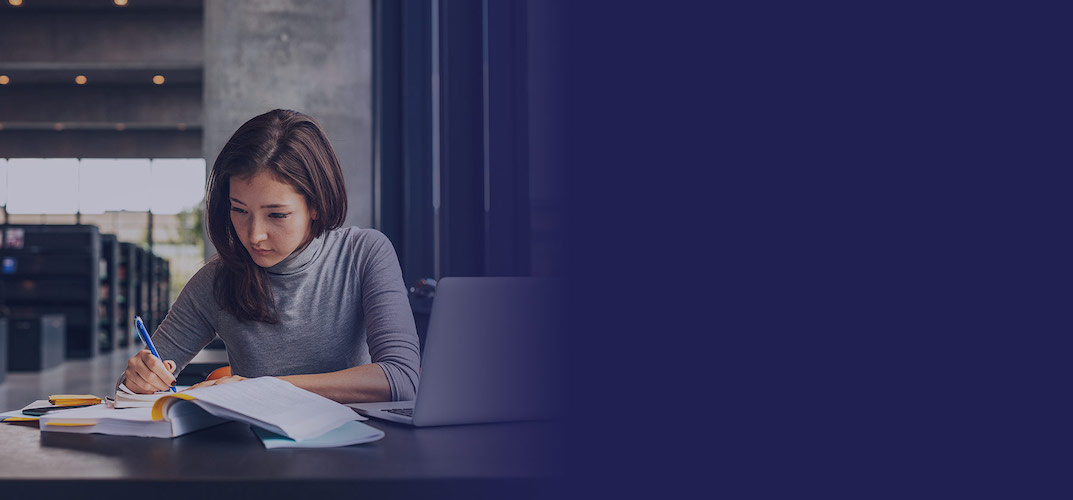
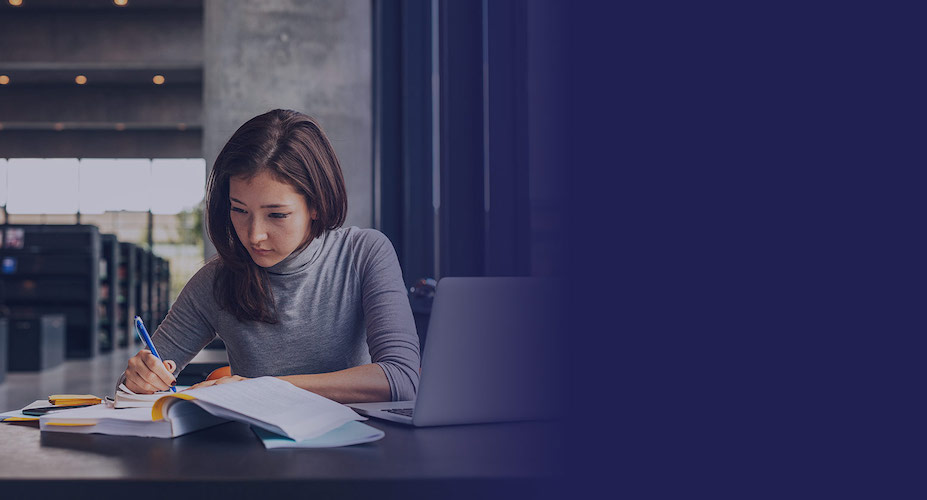
Fixed image path from image_base_url

diff --git a/_sass/_home.scss b/_sass/_home.scss
@@ -108,11 +108,12 @@ header {
     margin-bottom: 2rem;
   }
   p {
-    color: #bbb;
+    color: #ddd;
     font-size: 18px;
     line-height: 28px;
     padding-right: 1rem;
     margin-bottom: 2rem;
+    font-weight: 300;
   }
   .btn-apply {
     background: #c50227;
@@ -122,34 +123,6 @@ header {
   }
 }
 
-// covid
-.covid-section {
-  .background-container {
-    position: relative;
-
-    .image-wrapper {
-      position: absolute;
-      top: 0;
-      left: 0;
-    }
-  }
-
-  .covid-text-wrapper {
-    .inner-content {
-      padding: 3rem;
-      background-color: #E9E9E9;
-      margin: 30px 0;
-      position: relative;
-      left: 80%;
-    }
-    .title {
-      font-family: "Source Serif Pro", sans-serif;
-    }
-    img {
-      height: 25px;
-    }
-  }
-}
 
 // highlights
 .highlights-section {

diff --git a/_includes/banner.html b/_includes/banner.html
@@ -8,7 +8,7 @@
           <div class="carousel-inner">
             {% for slide in banner.slider %}
               <div class="carousel-item{% if forloop.index == 1 %} active{% endif %}">
-                <img src="{{ slide.img }}" class="d-block w-100" alt="{{ slide.title }}">
+                <img src="{{ site.image_base_url }}/{{ slide.img }}" class="d-block w-100" alt="{{ slide.title }}">
                 <div class="carousel-caption d-md-block">
                   <p class="mb-0">
                     {{ slide.title }}

diff --git a/assets/main.scss b/assets/main.scss
@@ -3,6 +3,7 @@
 
 $baseurl: "{{ site.baseurl }}";
 $image_base_url: "{{ site.image_base_url }}";
-$highlights-bg-img: "{{ site.data.home.highlights.bg-img }}";
-$admissions-bg-img: "{{ site.data.home.admissions.bg-img }}";
+$highlights-bg-img: "{{ site.image_base_url }}/{{ site.data.home.highlights.bg-img }}";
+$admissions-bg-img: "{{ site.image_base_url }}/{{ site.data.home.admissions.bg-img }}";
+$admissions-bg-img-sm: "{{ site.image_base_url }}/{{ site.data.home.admissions.bg-img-sm }}";
 @import "custom";

diff --git a/_includes/home/about.html b/_includes/home/about.html
@@ -9,7 +9,7 @@
     <div class="clearfix"></div>
     <div class="row">
       <div class="col-md-4">
-        <img src="{{ about.bg-img }}" class="img-fluid mt-2" alt="Profile">
+        <img src="{{ site.image_base_url }}/{{ about.profile-img }}" class="img-fluid rounded mt-2" alt="Profile">
       </div>
       <div class="col-md-6 offset-md-1">
         <p class="about-info">

diff --git a/_includes/home/principal-message.html b/_includes/home/principal-message.html
@@ -14,7 +14,7 @@
         </p>
       </div>
       <div class="col-md-4 offset-md-1">
-        <img src="{{ message.profile }}" class="img-fluid mt-2" alt="{{ message.header-text }}">
+        <img src="{{ site.image_base_url }}/{{ message.profile }}" class="img-fluid mt-2" alt="{{ message.header-text }}">
       </div>
     </div>
   </div>

diff --git a/_sass/_responsive.scss b/_sass/_responsive.scss
@@ -24,6 +24,9 @@
   .contact-section h3 {
     margin-top: 1.5rem;
   }
+  .admissions-section {
+    background: url($admissions-bg-img-sm) no-repeat center center/cover;
+  }
 
   footer span {
     display: block;
